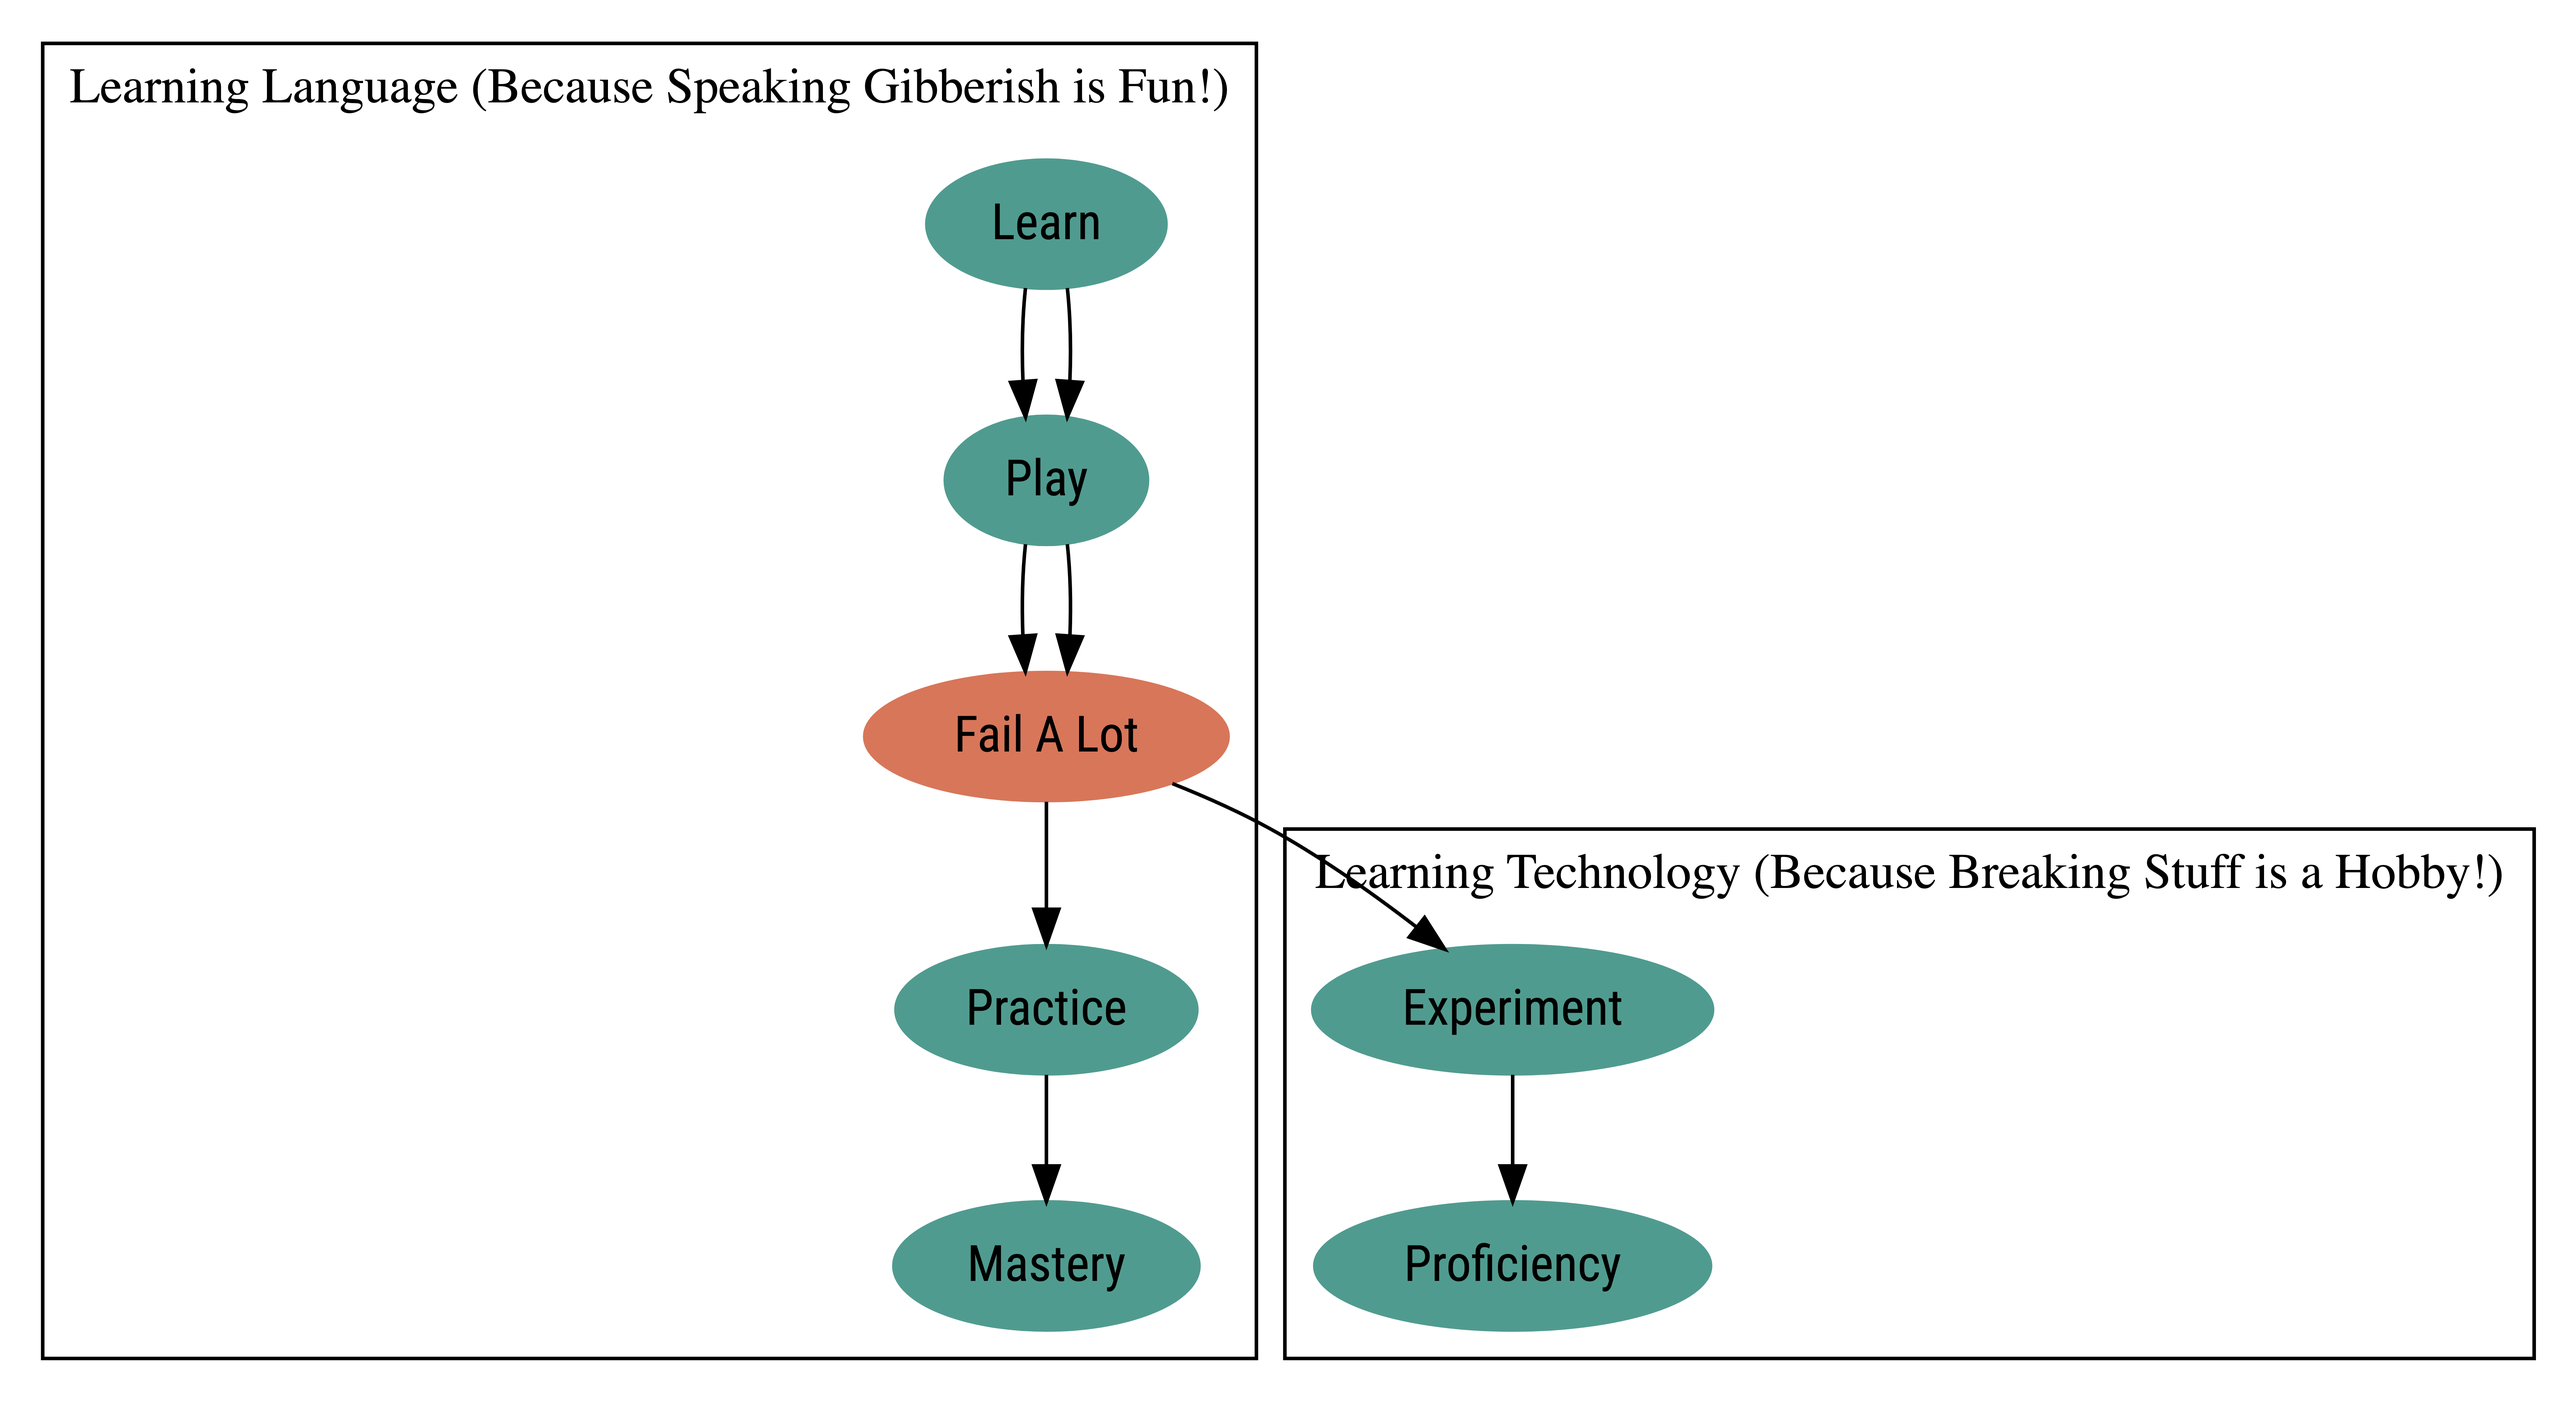
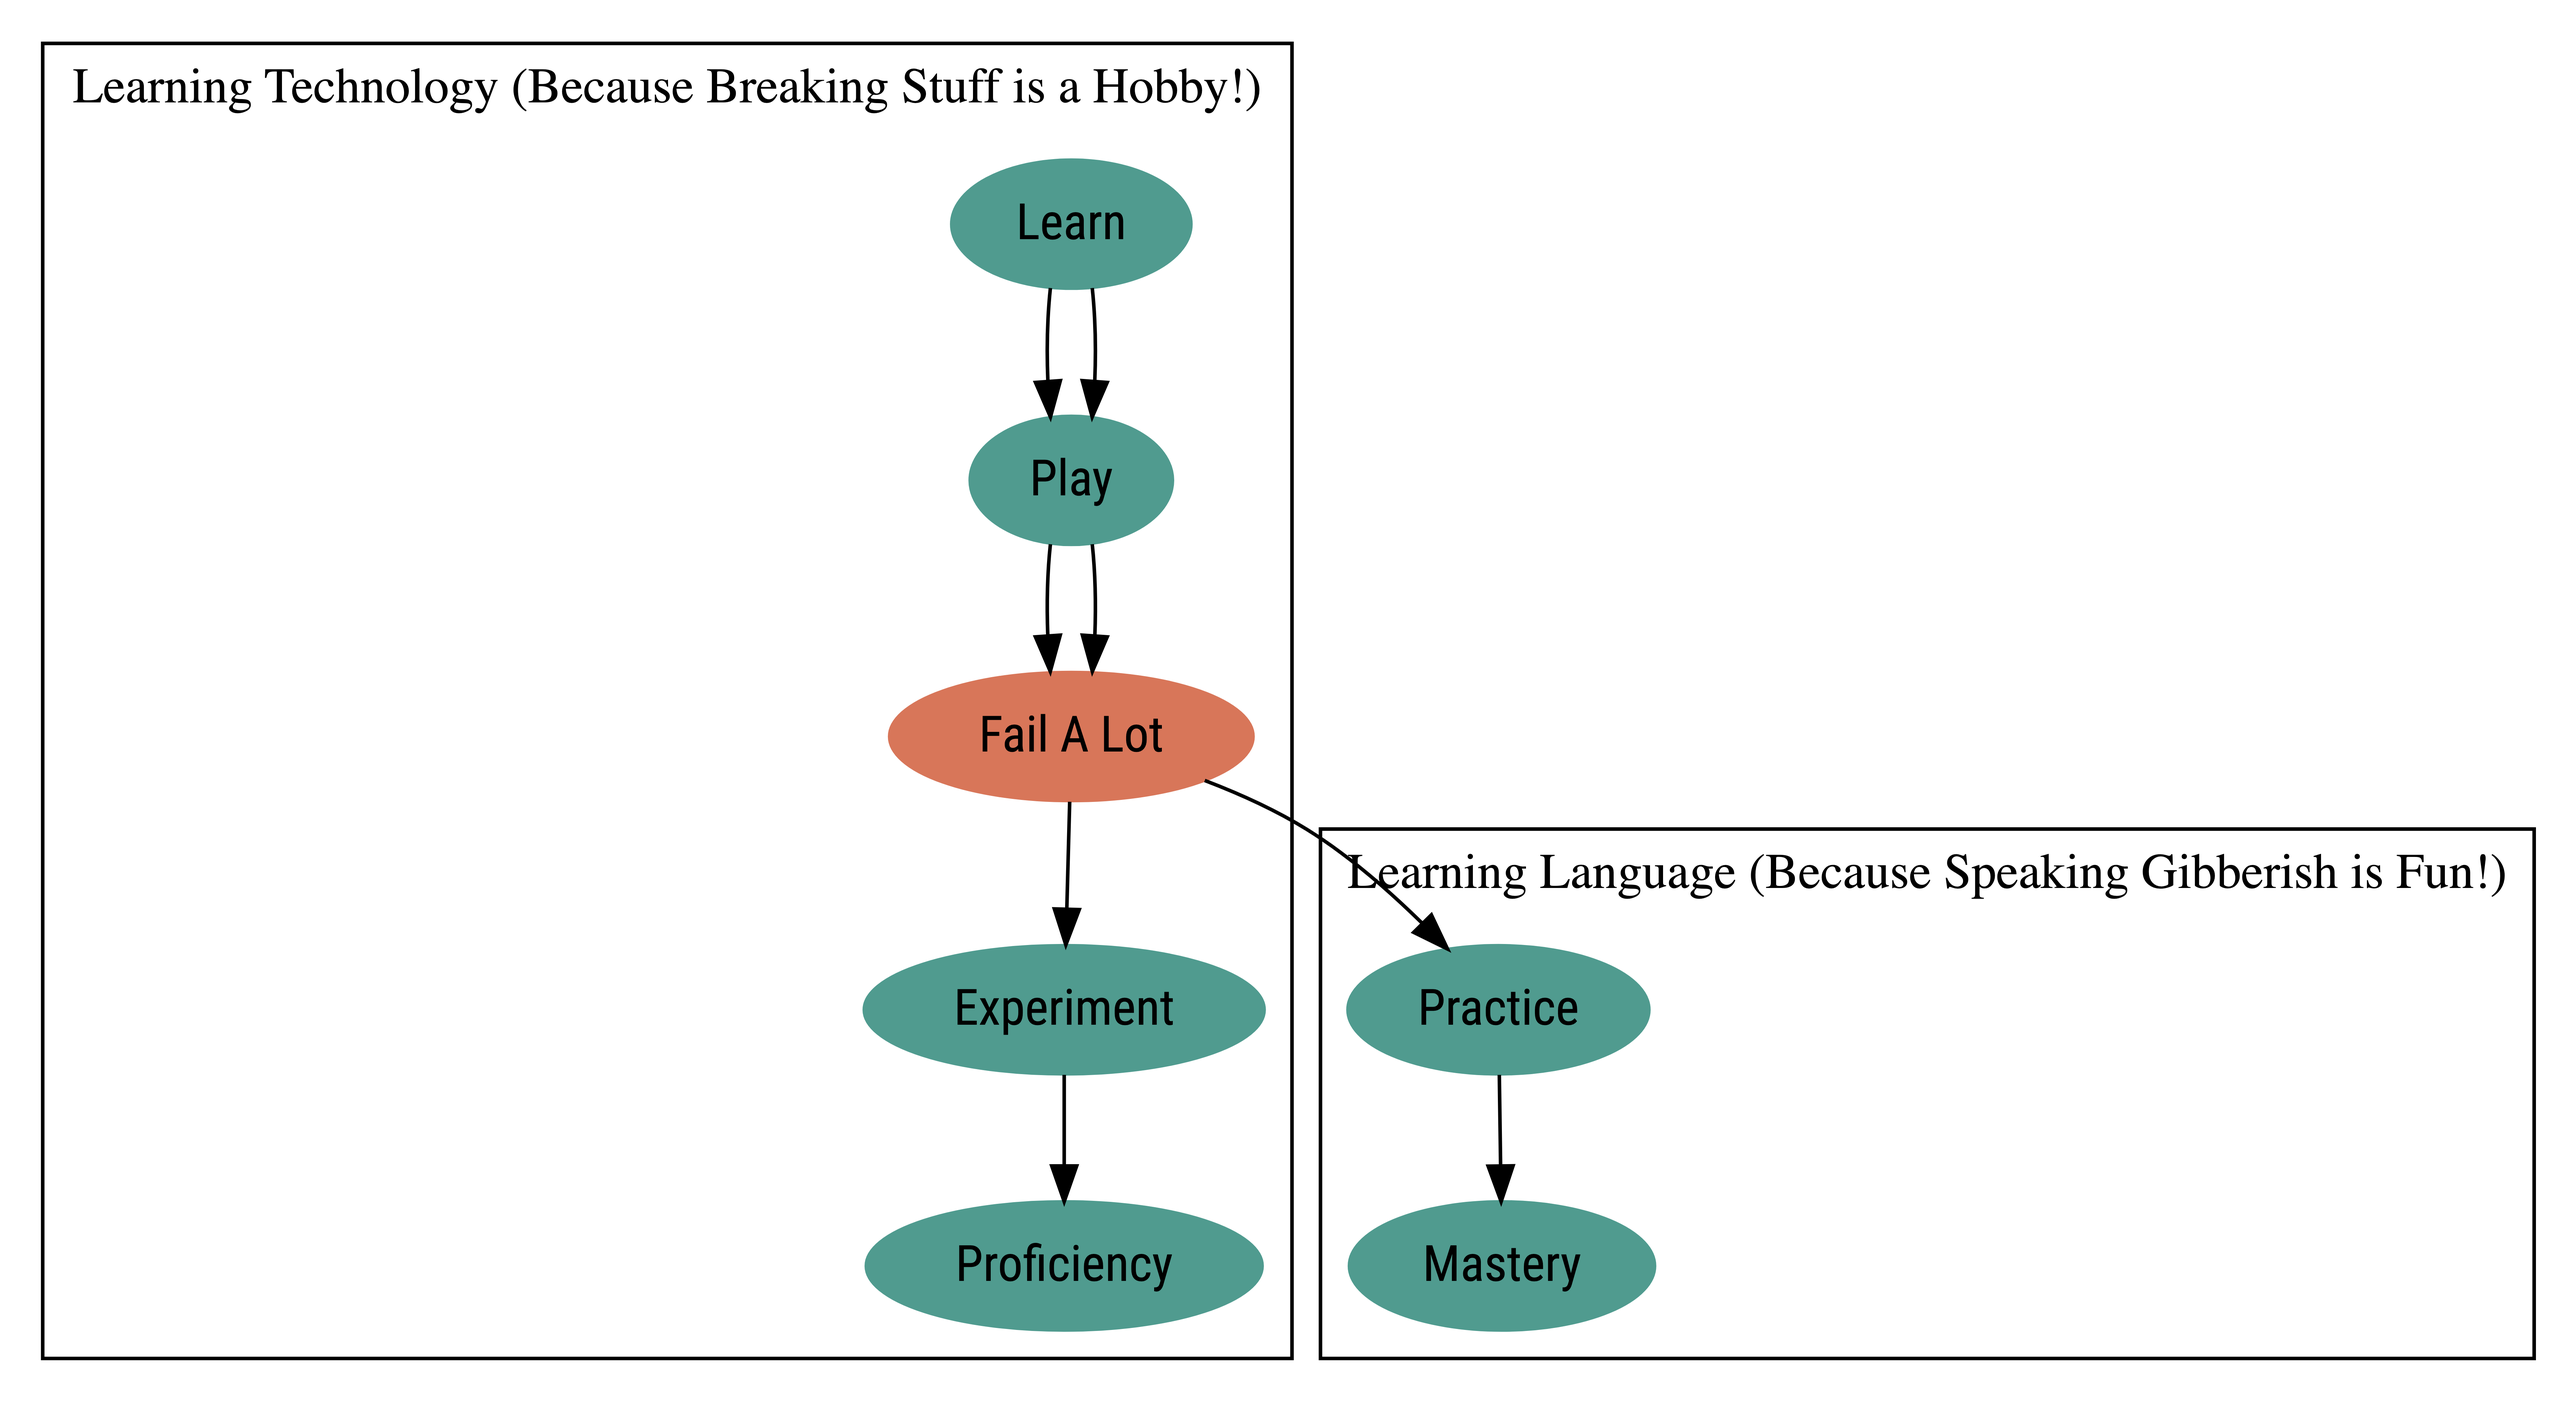
Trying to understand how to name chunk and options

Changed region(s): [[0.0312, 0.0312, 0.9677, 0.7798], [0.3122, 0.811, 0.6868, 0.9669]]

diff --git a/2023/week-38/week38_scratchpad.md b/2023/week-38/week38_scratchpad.md
@@ -4,6 +4,7 @@
 
 First I need to look up dictionary…
 
+Quarto  
 quar·to. /ˈkwôrdō/
 
 *noun* **PRINTING**
@@ -33,7 +34,7 @@ noun: **quarto**; symbol: **4to**
 <div>
 
 <img src="week38_scratchpad_files/figure-commonmark/dot-figure-1.png"
-style="width:7in;height:5in" />
+style="width:10in;height:5in" />
 
 </div>
 
@@ -44,16 +45,19 @@ Markdown-based documents, and it is suitable for Simple Diagram.
 
 ``` mermaid
 graph LR;
-  Learning[Start Learning] -->|Confusion| Frustration[Frustration];
-  Frustration -->|Breakdown| Breakdown[Breakdown];
-  Breakdown -->|Google Everything| Google[Google Everything];
-  Breakdown -->|Caffeine Overdose| Caffeine[Caffeine Overdose];
-  Breakdown -->|Procrastination| Procrastination[Procrastination];
-  Google -->|Repeat| Repeat[Repeat Steps 1-7];
-  Caffeine -->|Repeat| Repeat;
-  Procrastination -->|Repeat| Repeat;
-  Repeat -->|Repeat| Learning;
-  Repeat -->|Eventually| Success[Success!];
-
+  Learning[Start Learning] --&gt;|Confusion| Frustration[Frustration];
+  Frustration --&gt;|Breakdown| Breakdown[Breakdown];
+  Breakdown --&gt;|Google Everything| Google[Google Everything];
+  Breakdown --&gt;|Caffeine Overdose| Caffeine[Caffeine Overdose];
+  Breakdown --&gt;|Procrastination| Procrastination[Procrastination];
+  Google --&gt;|Repeat| Repeat[Repeat Steps 1-7];
+  Caffeine --&gt;|Repeat| Repeat;
+  Procrastination --&gt;|Repeat| Repeat;
+  Repeat --&gt;|Repeat| Learning;
+  Repeat --&gt;|Eventually| Success[Success!];
 
 ```
+
+### 🤩 / key let me insert things faster!
+
+![](week38_scratchpad_files/figure-commonmark/r_test-1.svg)
